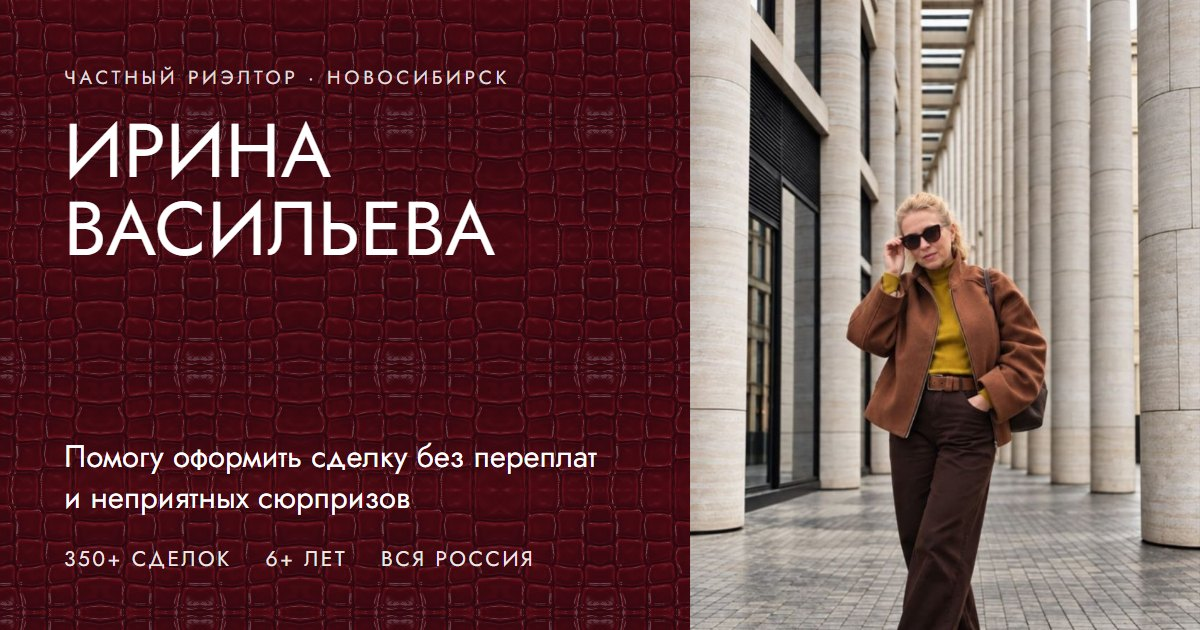
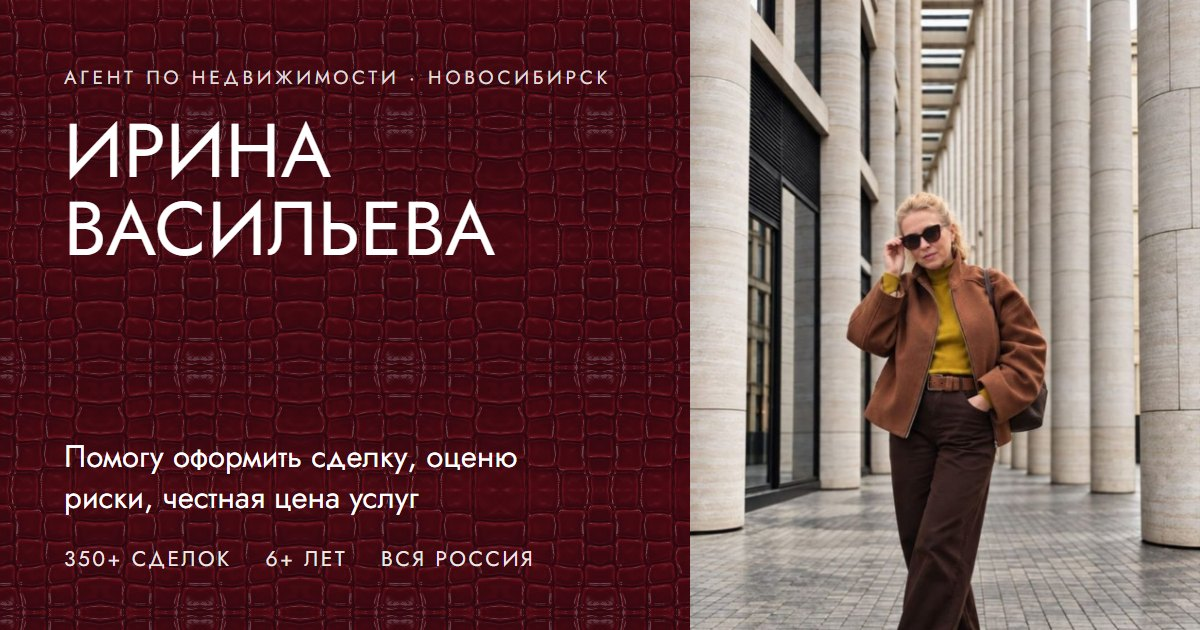
irina-vasilyeva/final: новый заголовок, «агент по недвижимости», новая цитата в отзывах

Changed region(s): [[0.0617, 0.0905, 0.4933, 0.1508], [0.0308, 0.7841, 0.37, 0.8143], [0.3392, 0.6937, 0.4933, 0.754]]

diff --git a/irina-vasilyeva/final/index.html b/irina-vasilyeva/final/index.html
@@ -5,7 +5,7 @@
 <meta name="viewport" content="width=device-width, initial-scale=1">
 <meta name="robots" content="noindex, nofollow">
 <meta name="theme-color" content="#efeeec">
-<title>Ирина Васильева — частный риэлтор в Новосибирске</title>
+<title>Ирина Васильева — агент по недвижимости в Новосибирске</title>
 <meta name="description" content="Покупка, продажа и обмен квартир: Новосибирск, Санкт-Петербург, Екатеринбург, Кемерово, Красноярск, Тюмень, Барнаул, Калининград. Опыт 6+ лет, 350+ сделок. Покупка в новостройке — для вас бесплатно.">
 <link rel="icon" href="favicon.ico" sizes="any">
 <link rel="icon" type="image/png" sizes="32x32" href="img/favicon-32.png">
@@ -13,25 +13,25 @@
 <!-- Превью ссылки в Telegram, MAX, ВКонтакте. При переезде на свой домен — заменить адрес в og:url и og:image -->
 <meta property="og:type" content="website">
 <meta property="og:locale" content="ru_RU">
-<meta property="og:site_name" content="Ирина Васильева — частный риэлтор">
-<meta property="og:title" content="Ирина Васильева — частный риэлтор в Новосибирске">
-<meta property="og:description" content="Помогу оформить сделку без переплат и неприятных сюрпризов. Каждую сделку проверяет юрист. Первая консультация бесплатно.">
+<meta property="og:site_name" content="Ирина Васильева — агент по недвижимости">
+<meta property="og:title" content="Ирина Васильева — агент по недвижимости в Новосибирске">
+<meta property="og:description" content="Помогу оформить сделку, оценю риски, честная цена услуг. Каждую сделку проверяет юрист. Первая консультация бесплатно.">
 <meta property="og:url" content="https://paharukova.github.io/prototipy/irina-vasilyeva/final/">
 <meta property="og:image" content="https://paharukova.github.io/prototipy/irina-vasilyeva/final/img/og.jpg">
 <meta property="og:image:width" content="1200">
 <meta property="og:image:height" content="630">
-<meta property="og:image:alt" content="Ирина Васильева, частный риэлтор">
+<meta property="og:image:alt" content="Ирина Васильева, агент по недвижимости">
 <meta name="twitter:card" content="summary_large_image">
-<link rel="stylesheet" href="fonts/manrope.css?v=20261114e">
-<link rel="stylesheet" href="fonts/jost.css?v=20261114e">
-<link rel="stylesheet" href="css/style.css?v=20261114e">
+<link rel="stylesheet" href="fonts/manrope.css?v=20261115a">
+<link rel="stylesheet" href="fonts/jost.css?v=20261115a">
+<link rel="stylesheet" href="css/style.css?v=20261115a">
 </head>
 <body>
 
 <header class="header">
   <div class="topnote"><span class="tn">Первая консультация&nbsp;— бесплатно</span><span class="dot">·</span><span class="tn">Новостройки&nbsp;— бесплатно</span><span class="tn-far"><span class="dot">·</span><span class="tn">Работаю по&nbsp;всей России</span></span></div>
   <div class="wrap navrow">
-    <a class="brand" href="#top"><b>Ирина Васильева</b><span>частный риэлтор · Новосибирск</span></a>
+    <a class="brand" href="#top"><b>Ирина Васильева</b><span>агент по недвижимости · Новосибирск</span></a>
     <nav class="nav" id="nav">
       <a href="#services">Услуги</a>
       <a href="#about">Обо&nbsp;мне</a>
@@ -56,7 +56,7 @@
   <div class="wrap">
     <div class="hero-grid">
       <div class="hero-copy">
-        <h1 class="serif"><span class="h1-line">Помогу оформить</span> <span class="h1-line">сделку без&nbsp;переплат</span> <span class="h1-line">и&nbsp;неприятных сюрпризов</span></h1>
+        <h1 class="serif"><span class="h1-line">Помогу оформить сделку,</span> <span class="h1-line">оценю риски,</span> <span class="h1-line">честная цена услуг</span></h1>
         <p class="lead">В&nbsp;Новосибирске&nbsp;— лично, в&nbsp;других городах&nbsp;— без&nbsp;вашего приезда. Каждую сделку проверяет юрист. Первая консультация бесплатно, на&nbsp;вторичке платите только после&nbsp;сделки.</p>
         <div class="actions">
           <a class="btn primary" href="#quiz">Получить план сделки <span class="arrow">↗</span></a>
@@ -64,7 +64,7 @@
         </div>
       </div>
       <figure class="hero-photo">
-        <img src="img/irina-hero.jpg" alt="Ирина Васильева, частный риэлтор" width="720" height="1280">
+        <img src="img/irina-hero.jpg" alt="Ирина Васильева, агент по недвижимости" width="720" height="1280">
         <figcaption class="photo-caption"><b>Ирина Васильева</b>Лично веду вашу сделку</figcaption>
       </figure>
       <div class="hero-panel">
@@ -335,8 +335,7 @@
     <div class="section-head center">
       <span class="eyebrow">Отзывы</span>
       <h2 class="serif">Что&nbsp;пишут клиенты</h2>
-      <blockquote class="review-thanks"><p>«Я&nbsp;очень благодарна клиентам за&nbsp;тёплые слова»</p><cite>Ирина Васильева</cite></blockquote>
-      <p class="review-past one-line">Часть отзывов&nbsp;— с&nbsp;тех времён, когда я&nbsp;работала в&nbsp;агентстве. Сейчас веду сделки как&nbsp;частный риэлтор.</p>
+      <blockquote class="review-thanks"><p>«Моя абсолютно взаимная любовь к&nbsp;моим клиентам»</p><cite>Ирина Васильева</cite></blockquote>
     </div>
     <div class="review-grid">
       <article class="review reveal"><span class="stars" aria-label="Оценка 5 из 5">★★★★★</span><p>От&nbsp;души хотим поблагодарить Васильеву Ирину Юрьевну за&nbsp;помощь в&nbsp;покупке квартиры! Сделка прошла качественно, быстро и&nbsp;профессионально. Ирина консультировала нас во&nbsp;всех возникающих вопросах, оперативно помогала. Все сложные вопросы, после обращения к&nbsp;Ирине стали простыми и&nbsp;легко решились! Она очень вежливый, настойчивый, грамотный специалист и&nbsp;просто хороший человек! Мы рекомендуем обращаться к&nbsp;Вам однозначно! Спасибо еще раз, успехов и&nbsp;процветания Вам и&nbsp;агенству Жилфонд!</p><small class="review-src">Отзыв на&nbsp;Flamp</small></article>
@@ -363,7 +362,7 @@
     </aside>
     <div class="faq-list">
       <details open><summary>Не&nbsp;потеряю&nbsp;ли я&nbsp;деньги на&nbsp;сделке?</summary><p>Нет.&nbsp;Деньги не&nbsp;передаются из&nbsp;рук в&nbsp;руки: они&nbsp;лежат на&nbsp;защищённом счёте банка, и&nbsp;продавец получает их&nbsp;только после&nbsp;регистрации права на&nbsp;вас. А&nbsp;до&nbsp;задатка мы&nbsp;с&nbsp;юристом проверяем квартиру и&nbsp;продавца.</p></details>
-      <details><summary>Чем&nbsp;частный риэлтор лучше агентства?</summary><p>Вы&nbsp;знаете, кто ведёт вашу сделку, и&nbsp;этот&nbsp;человек не&nbsp;меняется: я&nbsp;веду её&nbsp;лично, а&nbsp;документы проверяет юрист. Я&nbsp;сама отвечаю за&nbsp;результат и&nbsp;за&nbsp;свою репутацию&nbsp;— за&nbsp;шесть с&nbsp;лишним лет провела более 350&nbsp;сделок.</p></details>
+      <details><summary>Чем&nbsp;агент по недвижимости лучше агентства?</summary><p>Вы&nbsp;знаете, кто ведёт вашу сделку, и&nbsp;этот&nbsp;человек не&nbsp;меняется: я&nbsp;веду её&nbsp;лично, а&nbsp;документы проверяет юрист. Я&nbsp;сама отвечаю за&nbsp;результат и&nbsp;за&nbsp;свою репутацию&nbsp;— за&nbsp;шесть с&nbsp;лишним лет провела более 350&nbsp;сделок.</p></details>
       <details><summary>Кто занимается документами?</summary><p>Юридическую часть ведёт юрист: проверяет квартиру и&nbsp;продавца до&nbsp;задатка, готовит договоры. Если&nbsp;нужен узкий специалист&nbsp;— кадастровый инженер, ипотечный брокер, страховщик, арбитражный управляющий,&nbsp;— подключаем проверенных людей из&nbsp;моей команды.</p></details>
       <details><summary>Как&nbsp;купить квартиру в&nbsp;другом городе и&nbsp;не&nbsp;приезжать?</summary><p>Показ по&nbsp;видео, проверка документов онлайн, подписание через&nbsp;онлайн-кабинет банка с&nbsp;электронной подписью или&nbsp;по&nbsp;доверенности, электронная регистрация и&nbsp;расчёт через&nbsp;защищённый счёт банка. Вы&nbsp;можете быть в&nbsp;офисе банка в&nbsp;своём регионе или&nbsp;дома&nbsp;— даже в&nbsp;отпуске. Какой вариант подойдёт вам&nbsp;— скажу на&nbsp;консультации.</p></details>
       <details><summary>Сколько стоят ваши услуги и&nbsp;когда&nbsp;платить?</summary><p>Покупка или&nbsp;продажа на&nbsp;вторичном рынке&nbsp;— от&nbsp;2% стоимости объекта. Если&nbsp;квартиру вы&nbsp;нашли сами, юрпроверка и&nbsp;сопровождение сделки&nbsp;— 65&nbsp;000&nbsp;₽. Сумму фиксируем в&nbsp;договоре до&nbsp;начала работы. На&nbsp;вторичном рынке вы&nbsp;платите только&nbsp;после проведённой сделки. Покупка в&nbsp;новостройке для&nbsp;вас бесплатна, если&nbsp;вы пришли ко&nbsp;мне до&nbsp;визита к&nbsp;застройщику. Первая консультация&nbsp;— тоже бесплатно.</p></details>
@@ -418,7 +417,7 @@
   <div class="wrap footer-grid">
     <div>
       <b class="serif">Ирина Васильева</b>
-      <div>Частный риэлтор · Новосибирск&nbsp;— лично,<br>другие города&nbsp;— без&nbsp;вашего приезда</div>
+      <div>Агент по недвижимости · Новосибирск&nbsp;— лично,<br>другие города&nbsp;— без&nbsp;вашего приезда</div>
     </div>
     <nav class="footer-nav"><a href="#services">Услуги</a><a href="#remote">Из&nbsp;другого города</a><a href="#prices">Цены</a><a href="#faq">Вопросы</a><a href="#contact">Связаться</a></nav>
     <small>Васильева Ирина Юрьевна, самозанятая<br><a href="mailto:vasilieva_iren@mail.ru">vasilieva_iren@mail.ru</a> · <a href="tel:+79833192837">+7 983 319-28-37</a><br><a href="politika.html">Политика обработки персональных данных</a><br><a href="soglasie.html">Согласие на&nbsp;обработку данных</a><br>Прототип сайта: кейсы и&nbsp;часть данных для&nbsp;примера, формы ничего не&nbsp;отправляют. Разработка&nbsp;— Татьяна</small>
@@ -427,7 +426,7 @@
 
 <div class="float-msg"><a class="float-call" href="tel:+79833192837">Позвонить</a><a class="float-write" href="#contact">Написать</a></div>
 
-<script src="js/typo.js?v=20261114e"></script>
-<script src="js/main.js?v=20261114e"></script>
+<script src="js/typo.js?v=20261115a"></script>
+<script src="js/main.js?v=20261115a"></script>
 </body>
 </html>
